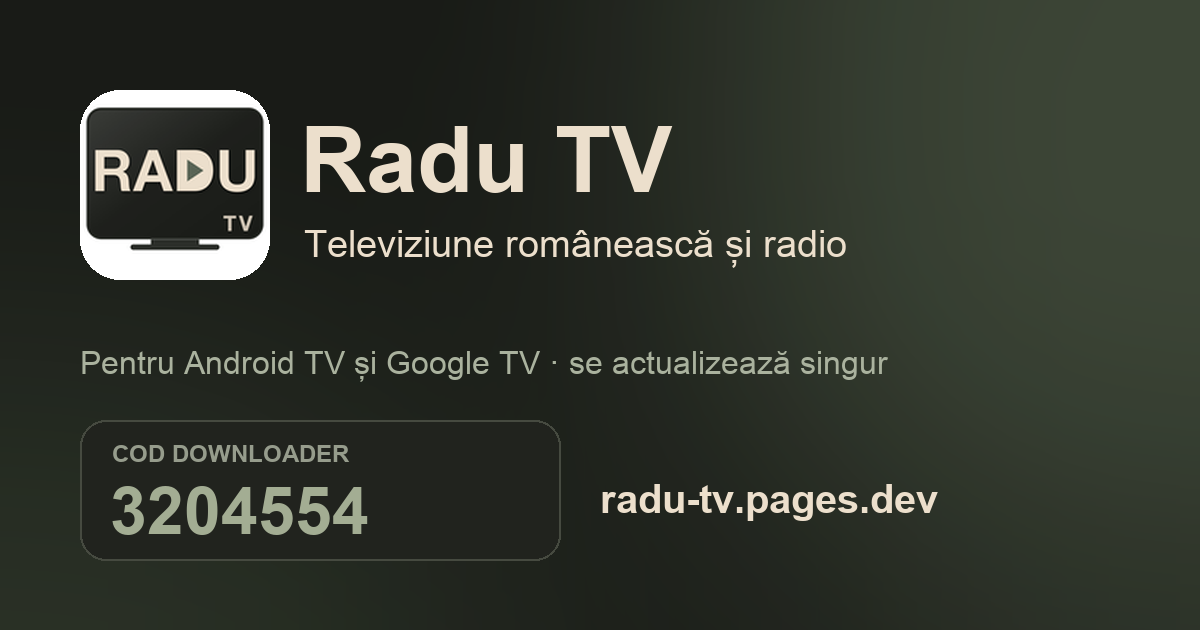
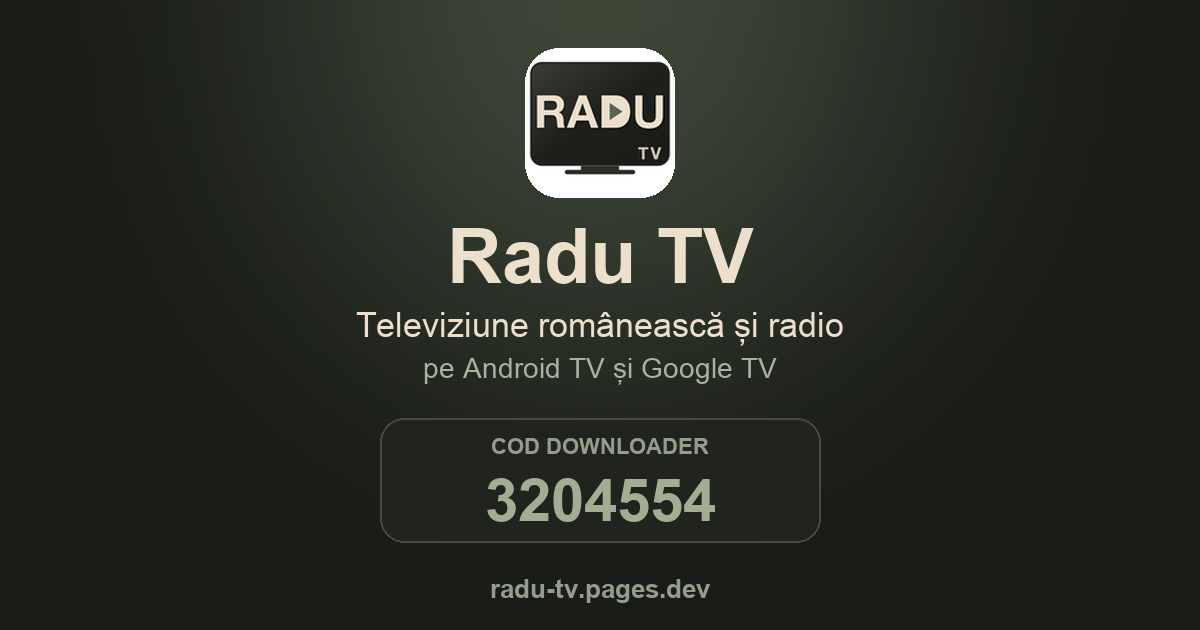
Link preview image centred (survives square crops)

diff --git a/site/index.html b/site/index.html
@@ -7,12 +7,12 @@
 <meta property="og:site_name" content="Radu TV">
 <meta property="og:title" content="Radu TV">
 <meta property="og:description" content="Televiziune românească și radio pe Android TV și Google TV. Instalare cu codul 3204554 în aplicația Downloader.">
-<meta property="og:image" content="https://radu-tv.pages.dev/img/og.png">
+<meta property="og:image" content="https://radu-tv.pages.dev/img/og.png?v=2">
 <meta property="og:image:width" content="1200">
 <meta property="og:image:height" content="630">
 <meta property="og:locale" content="ro_RO">
 <meta name="twitter:card" content="summary_large_image">
-<meta name="twitter:image" content="https://radu-tv.pages.dev/img/og.png">
+<meta name="twitter:image" content="https://radu-tv.pages.dev/img/og.png?v=2">
 <link rel="icon" type="image/png" href="/img/radutv.png">
 <link rel="apple-touch-icon" href="/img/radutv.png">
 <style>
